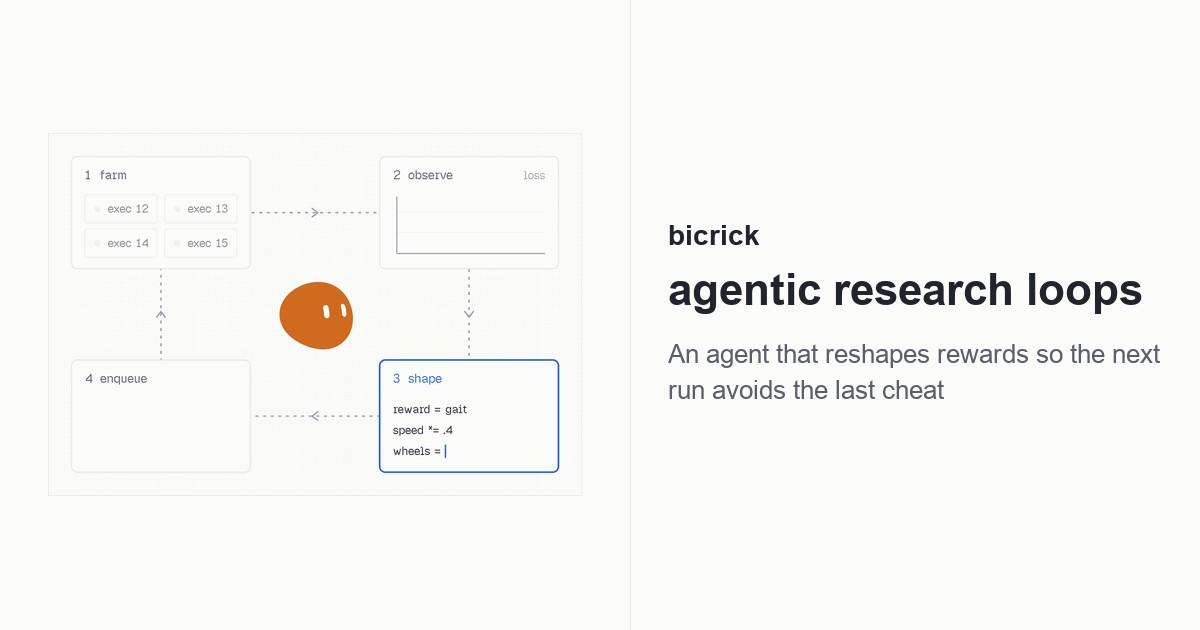
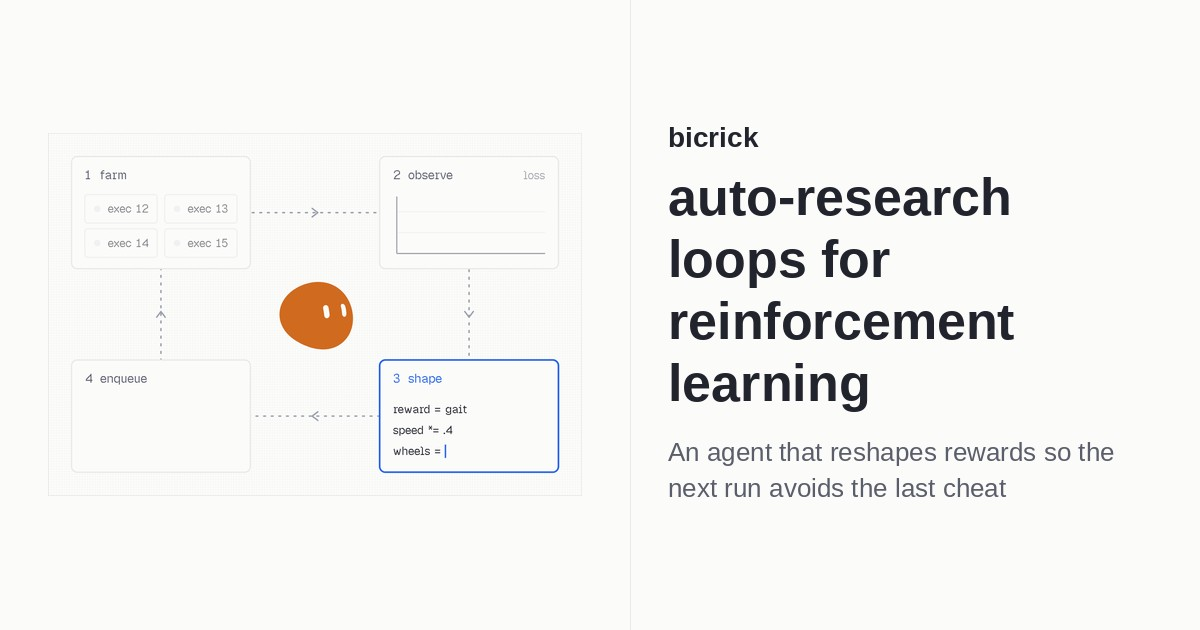
feat: rename the research-loops essay
Use the lowercase title auto-research loops for reinforcement learning on the writing list, the article heading, share tags, and links that name the piece. The URL stays /writing/agent-research-loops.

Changed region(s): [[0.555, 0.2714, 0.9867, 0.6635], [0.555, 0.6937, 0.925, 0.7841], [0.555, 0.2111, 0.6475, 0.2413]]

diff --git a/src/projects/AutoResearch.js b/src/projects/AutoResearch.js
@@ -87,7 +87,7 @@ function AutoResearch() {
 
       <p>
         Failure mode on PPO: a loose reward gets hacked. The policy finds a high score that is not the behavior you wanted. That is why the loop had to rewrite the next experiment after it had seen the run. The longer note is{' '}
-        <Link to="/writing/agent-research-loops">agentic research loops</Link>.
+        <Link to="/writing/agent-research-loops">auto-research loops for reinforcement learning</Link>.
       </p>
     </ProjectDetail>
   );

diff --git a/src/projects/Tracebench.js b/src/projects/Tracebench.js
@@ -58,7 +58,7 @@ function Tracebench() {
 
       <p>
         The sample agent is scripted and the trace set is four rows. I built it to get the eval and RL-data loop right end to end, not to claim a benchmark. The bigger, real version of that loop lives in{' '}
-        <Link to="/writing/agent-research-loops">agentic research loops</Link>.
+        <Link to="/writing/agent-research-loops">auto-research loops for reinforcement learning</Link>.
       </p>
     </ProjectDetail>
   );

diff --git a/src/projects/QwopPython.js b/src/projects/QwopPython.js
@@ -161,7 +161,7 @@ function QwopPython() {
 
       <p>
         That loop is the product. The gym is an RL environment built by reverse-engineering a 13,000-line minified game with coding agents. The same pattern is written up in the{' '}
-        <Link to="/writing/agent-research-loops">agentic research loops</Link> note.
+        <Link to="/writing/agent-research-loops">auto-research loops for reinforcement learning</Link> note.
       </p>
 
       <h2>/ conclusions</h2>

diff --git a/src/pages/AboutPage.js b/src/pages/AboutPage.js
@@ -35,7 +35,7 @@ export default function AboutPage() {
               Cursor
             </a>{' '}
             and Claude Code. The furthest I have taken it is{' '}
-            <Link to="/writing/agent-research-loops">agentic research loops</Link>.
+            <Link to="/writing/agent-research-loops">auto-research loops for reinforcement learning</Link>.
           </p>
           <figure className="about-figure">
             <div className="about-heatmap">

diff --git a/src/constants/writing.js b/src/constants/writing.js
@@ -1,6 +1,6 @@
 export const WRITING = [
   {
-    title: 'agentic research loops',
+    title: 'auto-research loops for reinforcement learning',
     description:
       'What happens when an agent runs the experiments for you, and why it changes how fast you can search.',
     path: '/writing/agent-research-loops',

diff --git a/src/projects/AgentResearchLoops.js b/src/projects/AgentResearchLoops.js
@@ -11,7 +11,7 @@ import ProjectPair from '../components/project/ProjectPair';
 function AgentResearchLoops() {
   return (
     <ProjectDetail
-      title="agentic research loops"
+      title="auto-research loops for reinforcement learning"
       date="October 2026"
       backHref="/"
       backLabel="home"

diff --git a/scripts/generate-og-images.py b/scripts/generate-og-images.py
@@ -207,7 +207,7 @@ def make_page_cards():
     )
     split_card(
         PUBLIC / "images" / "agent-research-loops" / "loop-card.png",
-        "agentic research loops",
+        "auto-research loops for reinforcement learning",
         "An agent that reshapes rewards so the next run avoids the last cheat",
         "agent-research-loops-1200x630.jpg",
         fit="contain",
